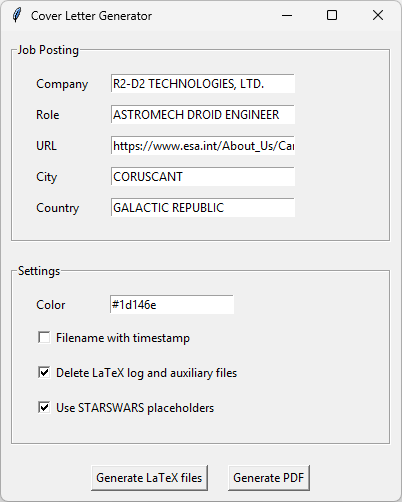
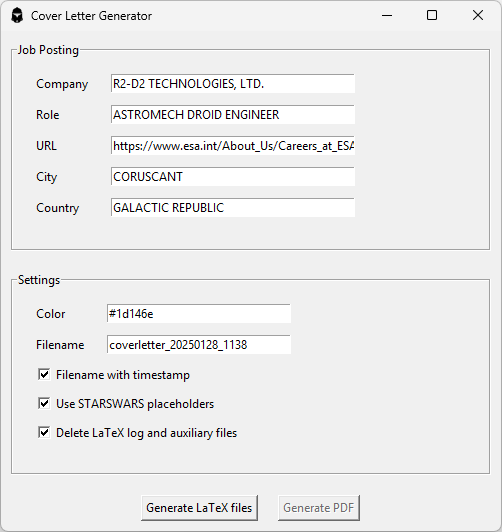
add filename settings

diff --git a/generate_form.py b/generate_form.py
@@ -1,16 +1,19 @@
 import tkinter as tk
+import time
 
 # Default color value
 DEFAULT_COLOR = "#333333"
+DEFAULT_FILENAME = "coverletter"
 
 def generate_form(on_generate_tex, on_generate_pdf):
     # Create the main Tkinter window
     root = tk.Tk()
     root.title("Cover Letter Generator")
+    root.iconbitmap("images/favicon.ico")
 
     # Center the window on the screen
-    window_width = 400
-    window_height = 470
+    window_width = 500
+    window_height = 500
     screen_width = root.winfo_screenwidth()
     screen_height = root.winfo_screenheight()
     x_position = (screen_width - window_width) // 2
@@ -26,6 +29,7 @@ def generate_form(on_generate_tex, on_generate_pdf):
 
     # Initialize the color variable with the default value
     color_var = tk.StringVar(value=DEFAULT_COLOR)
+    filename_var = tk.StringVar(value=DEFAULT_FILENAME)
     timestamp_var = tk.BooleanVar(value=False)  # Checkbox for timestamp (default: False)
     cleanup_var = tk.BooleanVar(value=True)    # Checkbox for cleanup (default: True)
     placeholder_var = tk.BooleanVar(value=False)  # Checkbox for placeholders
@@ -37,7 +41,7 @@ def generate_form(on_generate_tex, on_generate_pdf):
             role_var.set("ASTROMECH DROID ENGINEER")  
             city_var.set("CORUSCANT") 
             country_var.set("GALACTIC REPUBLIC")
-            url_var.set("https://www.esa.int/About_Us/Careers_at_ESA/Apply_now_to_become_an_ESA_astronaut")
+            url_var.set("https://www.esa.int/About_Us/Careers_at_ESA")
             color_var.set("#1d146e")
         else:
             company_var.set("")  # Clear the company name if not checked
@@ -45,7 +49,17 @@ def generate_form(on_generate_tex, on_generate_pdf):
             city_var.set("")  # Clear city
             country_var.set("")  # Clear country
             url_var.set("")  # Clear URL
-            color_var.set("#333333")
+            color_var.set(DEFAULT_COLOR)
+            filename_var.set(DEFAULT_FILENAME)
+
+    def update_filename():
+        if timestamp_var.get():  # Check the actual checkbox variable
+            timestamp = time.strftime("%Y%m%d_%H%M")
+            filename = filename_var.get()
+            filename_var.set(f"{filename}_{timestamp}")
+        else:
+            filename = filename_var.get().split('_20')[0]
+            filename_var.set(filename)
 
     # CONTENT
     # Create a LabelFrame to group the inputs with a title
@@ -54,19 +68,19 @@ def generate_form(on_generate_tex, on_generate_pdf):
 
     # Use grid layout to arrange labels and entry fields side by side
     tk.Label(frame_inputs, text="Company").grid(row=0, column=0, padx=10, pady=5, sticky="e")
-    tk.Entry(frame_inputs, textvariable=company_var, width=30).grid(row=0, column=1, padx=10, pady=5)
+    tk.Entry(frame_inputs, textvariable=company_var, width=40).grid(row=0, column=1, padx=10, pady=5)
 
     tk.Label(frame_inputs, text="Role").grid(row=1, column=0, padx=10, pady=5, sticky="w")
-    tk.Entry(frame_inputs, textvariable=role_var, width=30).grid(row=1, column=1, padx=10, pady=5)
+    tk.Entry(frame_inputs, textvariable=role_var, width=40).grid(row=1, column=1, padx=10, pady=5)
 
     tk.Label(frame_inputs, text="URL").grid(row=2, column=0, padx=10, pady=5, sticky="w")
-    tk.Entry(frame_inputs, textvariable=url_var, width=30).grid(row=2, column=1, padx=10, pady=5)
+    tk.Entry(frame_inputs, textvariable=url_var, width=40).grid(row=2, column=1, padx=10, pady=5)
 
     tk.Label(frame_inputs, text="City").grid(row=3, column=0, padx=10, pady=5, sticky="w")
-    tk.Entry(frame_inputs, textvariable=city_var, width=30).grid(row=3, column=1, padx=10, pady=5)
+    tk.Entry(frame_inputs, textvariable=city_var, width=40).grid(row=3, column=1, padx=10, pady=5)
 
     tk.Label(frame_inputs, text="Country").grid(row=4, column=0, padx=10, pady=5, sticky="w")
-    tk.Entry(frame_inputs, textvariable=country_var, width=30).grid(row=4, column=1, padx=10, pady=5)
+    tk.Entry(frame_inputs, textvariable=country_var, width=40).grid(row=4, column=1, padx=10, pady=5)
 
     # SETTINGS
     # Create a LabelFrame to group the inputs with a title
@@ -75,12 +89,16 @@ def generate_form(on_generate_tex, on_generate_pdf):
 
     # Use grid for the label and entry side by side
     tk.Label(frame_settings, text="Color", anchor="w").grid(row=0, column=0, padx=10, pady=5, sticky="w")
-    tk.Entry(frame_settings, textvariable=color_var).grid(row=0, column=1, padx=10, pady=5)
+    tk.Entry(frame_settings, textvariable=color_var, width=30).grid(row=0, column=1, padx=10, pady=5)
+
+    # Use grid for the label and entry side by side
+    tk.Label(frame_settings, text="Filename", anchor="w").grid(row=1, column=0, padx=10, pady=5, sticky="w")
+    tk.Entry(frame_settings, textvariable=filename_var, width=30).grid(row=1, column=1, padx=10, pady=5) 
 
     # Checkbuttons for additional options (aligned to the left)
-    tk.Checkbutton(frame_settings, text="Filename with timestamp", variable=timestamp_var, anchor="w").grid(row=1, column=0, columnspan=2, pady=5, padx=10, sticky="w")
-    tk.Checkbutton(frame_settings, text="Delete LaTeX log and auxiliary files", variable=cleanup_var, anchor="w").grid(row=2, column=0, columnspan=2, pady=5, padx=10, sticky="w")
-    tk.Checkbutton(frame_settings, text="Use STARSWARS placeholders", variable=placeholder_var, anchor="w", command=update_entries).grid(row=3, column=0, columnspan=2, pady=5, padx=10, sticky="w")
+    tk.Checkbutton(frame_settings, text="Filename with timestamp", variable=timestamp_var, anchor="w", command=update_filename).grid(row=2, column=0, columnspan=2, pady=2, padx=10, sticky="w")
+    tk.Checkbutton(frame_settings, text="Use STARSWARS placeholders", variable=placeholder_var, anchor="w", command=update_entries).grid(row=3, column=0, columnspan=2, pady=2, padx=10, sticky="w")
+    tk.Checkbutton(frame_settings, text="Delete LaTeX log and auxiliary files", variable=cleanup_var, anchor="w").grid(row=4, column=0, columnspan=2, pady=2, padx=10, sticky="w")
 
     # Create a frame for the buttons at the bottom
     button_frame = tk.Frame(root)
@@ -97,7 +115,7 @@ def generate_form(on_generate_tex, on_generate_pdf):
             city_var, 
             country_var, 
             color_var,
-            timestamp_var
+            filename_var
         )
     )
     generate_tex_button.pack(side="left", padx=10)

diff --git a/generate_tex.py b/generate_tex.py
@@ -8,18 +8,14 @@ COVERLETTER_FILENAME = "coverletter.tex"
 # Path to the template file
 template_path = os.path.join(os.getcwd(), "coverletter_template", COVERLETTER_FILENAME)
 
-def generate_tex(company, role, url, city, country, color, filename_with_timestamp):
+def generate_tex(company, role, url, city, country, color, filename):
     # Ensure the 'tex' folder exists
     tex_folder = os.path.join(os.getcwd(), "tex")
     if not os.path.exists(tex_folder):
         os.makedirs(tex_folder)
 
-    # Generate a timestamped filename inside the 'tex' folder
-    if filename_with_timestamp:
-        timestamp = time.strftime("%Y%m%d_%H%M%S")
-        output_file_path = os.path.join(tex_folder, f"coverletter_{timestamp}.tex")
-    else:
-        output_file_path = os.path.join(tex_folder, f"coverletter.tex")
+    # Generate a the output file path
+    output_file_path = os.path.join(tex_folder, f"{filename}.tex")
 
     if not os.path.exists(template_path):
         raise FileNotFoundError(f"Template file not found at: {template_path}")

diff --git a/main.py b/main.py
@@ -12,8 +12,8 @@ from cleanup_folder import cleanup_folder
 def get_default_value(value, default_value):
     return value.strip() if value and value.strip() else default_value
 
-def on_generate_tex(company_var, role_var, url_var, city_var, country_var, color_var, timestamp_var):
-    USE_FILENAME_WITH_TIMESTAMP = timestamp_var.get()
+def on_generate_tex(company_var, role_var, url_var, city_var, country_var, color_var, filename_var):
+    FILENAME = filename_var.get()
     COLOR = color_var.get()
 
     # Get values from Tkinter StringVars
@@ -24,7 +24,7 @@ def on_generate_tex(company_var, role_var, url_var, city_var, country_var, color
     url = url_var.get()
 
     # Generate .tex file and return its path
-    tex_file_path = generate_tex(company, role, url, city, country, COLOR, USE_FILENAME_WITH_TIMESTAMP)
+    tex_file_path = generate_tex(company, role, url, city, country, COLOR, FILENAME)
     
     # Update the tex_file variable in the main function
     global tex_file

diff --git a/tex/coverletter.tex b/tex/coverletter.tex
@@ -106,7 +106,7 @@
 %----------------------------------------------------------------------------------------
 \newcommand{\COMPANY}{R2-D2 TECHNOLOGIES, LTD.}
 \newcommand{\ROLE}{ASTROMECH DROID ENGINEER}
-\newcommand{\JobPostingURL}{https://www.esa.int/About_Us/Careers_at_ESA/Apply_now_to_become_an_ESA_astronaut}
+\newcommand{\JobPostingURL}{https://www.esa.int/About_Us/Careers_at_ESA}
 \newcommand{\CITY}{CORUSCANT}
 \newcommand{\COUNTRY}{GALACTIC REPUBLIC}
 
